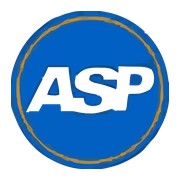
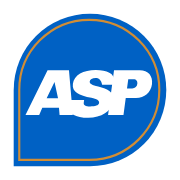
feat(marca): usa a assinatura completa no login e na página inicial; regera ícones
- login, definir-senha e esqueci-senha: assinatura completa no topo do
  cartão (azul no tema claro, branca no escuro); .logo deixa de recortar
  em círculo.
- página inicial (fundo escuro): assinatura branca no lugar do selo de 80 px.
- favicon/atalho apontam para asp-badge-16.svg.
- icon-192, icon-512, icon-512-maskable (gota dentro da zona segura de 80 %)
  e apple-touch-icon regerados a partir do novo símbolo, fundo branco.

Changed region(s): [[0.0556, 0.0556, 0.9444, 0.9444]]

diff --git a/app/globals.css b/app/globals.css
@@ -169,13 +169,16 @@ h4 { font-size: var(--fs-md); }
   box-shadow: var(--sombra-2);
 }
 .login-marca { display: flex; align-items: center; justify-content: center; gap: 12px; margin-bottom: 16px; }
+/* Assinatura completa (símbolo + ADVANCED SERVICES PROVIDER): azul no tema
+   claro, palavras em branco no escuro — só uma das duas imagens aparece. */
 .card-login .logo {
-  width: 60px;
   height: 60px;
-  border-radius: 50%;
-  object-fit: cover;
+  width: auto;
   display: block;
 }
+.card-login .logo-escuro { display: none; }
+[data-theme="dark"] .card-login .logo-claro { display: none; }
+[data-theme="dark"] .card-login .logo-escuro { display: block; }
 .login-mascote { height: 60px; width: auto; }
 .card-login h1 {
   margin: 0;

diff --git a/app/login/page.tsx b/app/login/page.tsx
@@ -57,7 +57,8 @@ function LoginForm() {
       </div>
       <div className="card-login">
         <div className="login-marca">
-          <img src="/assets/asp-badge.svg" alt="ASP" className="logo" />
+          <img src="/assets/asp-logo.svg" alt="ASP — Advanced Services Provider" className="logo logo-claro" />
+          <img src="/assets/asp-logo-branco.svg" alt="ASP — Advanced Services Provider" className="logo logo-escuro" />
           <img src="/assets/asp-mascote.svg" alt="" aria-hidden="true" className="login-mascote" />
         </div>
         <h1>Plataforma ASP</h1>

diff --git a/app/esqueci-senha/page.tsx b/app/esqueci-senha/page.tsx
@@ -60,7 +60,8 @@ function EsqueciForm() {
       </div>
       <div className="card-login">
         <div className="login-marca">
-          <img src="/assets/asp-badge.svg" alt="ASP" className="logo" />
+          <img src="/assets/asp-logo.svg" alt="ASP — Advanced Services Provider" className="logo logo-claro" />
+          <img src="/assets/asp-logo-branco.svg" alt="ASP — Advanced Services Provider" className="logo logo-escuro" />
         </div>
         <h1>Esqueci minha senha</h1>
         {!enviado ? (

diff --git a/app/definir-senha/page.tsx b/app/definir-senha/page.tsx
@@ -109,7 +109,8 @@ function DefinirSenhaForm() {
       </div>
       <div className="card-login">
         <div className="login-marca">
-          <img src="/assets/asp-badge.svg" alt="ASP" className="logo" />
+          <img src="/assets/asp-logo.svg" alt="ASP — Advanced Services Provider" className="logo logo-claro" />
+          <img src="/assets/asp-logo-branco.svg" alt="ASP — Advanced Services Provider" className="logo logo-escuro" />
         </div>
 
         {estado.fase === "carregando" && (

diff --git a/app/layout.tsx b/app/layout.tsx
@@ -36,8 +36,9 @@ export const metadata: Metadata = {
   description: "Sistema interno — gestão de projetos e Ordens de Serviço.",
   applicationName: "ASP",
   icons: {
-    icon: "/assets/asp-badge.svg",
-    shortcut: "/assets/asp-badge.svg",
+    // Variante otimizada para 16–32 px (borda dourada no contorno, letras mais cheias).
+    icon: "/assets/asp-badge-16.svg",
+    shortcut: "/assets/asp-badge-16.svg",
     apple: "/apple-touch-icon.png",
   },
   appleWebApp: {

diff --git a/app/page.tsx b/app/page.tsx
@@ -20,7 +20,7 @@ export default function PaginaInicial() {
   return (
     <main className="landing">
       <div className="landing-conteudo">
-        <Image src="/assets/asp-badge.svg" alt="ASP" width={80} height={80} priority />
+        <Image src="/assets/asp-logo-branco.svg" alt="ASP — Advanced Services Provider" width={238} height={88} priority />
 
         <span className="landing-marca">ASP</span>
 
